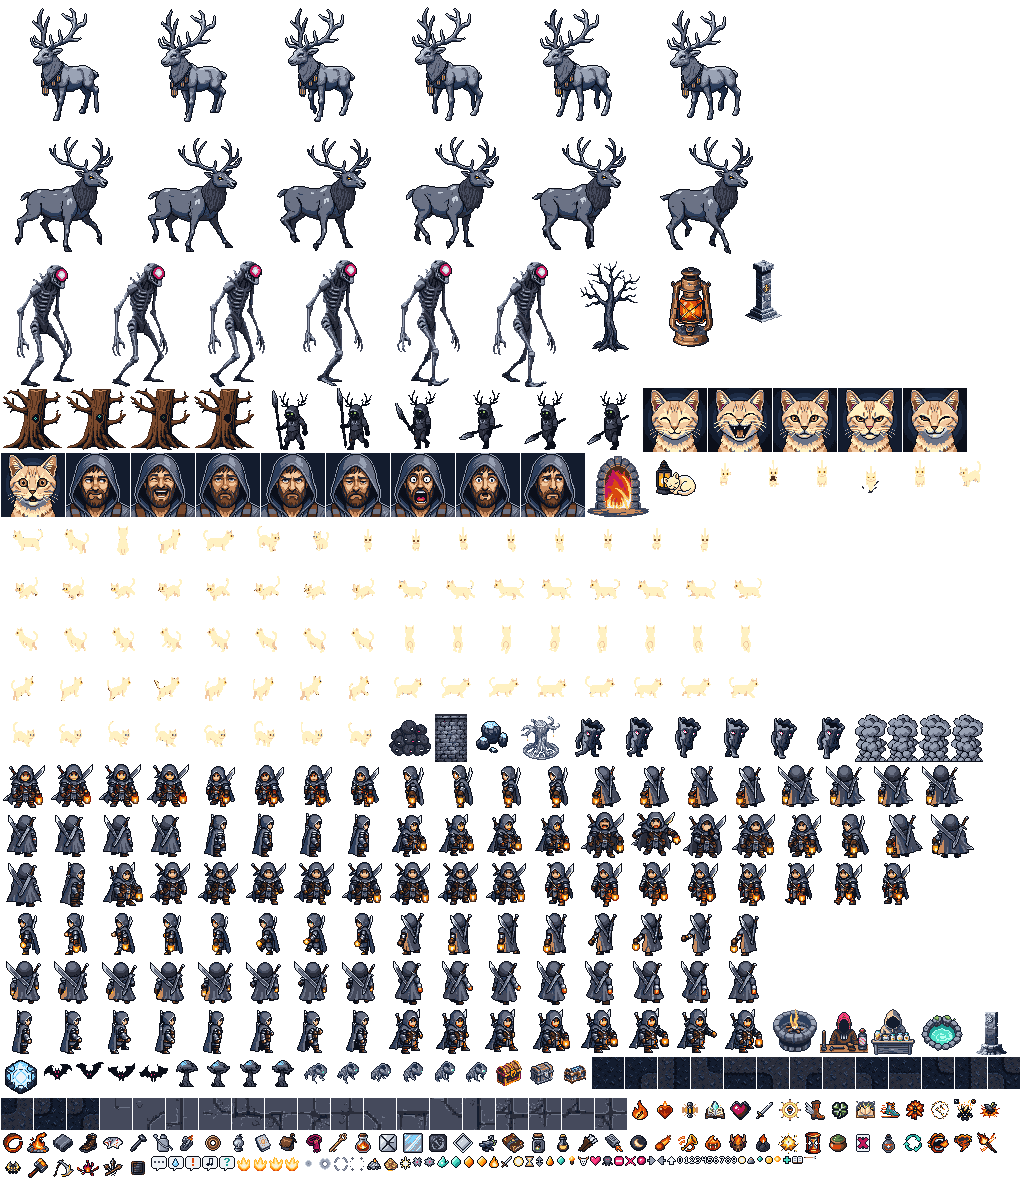
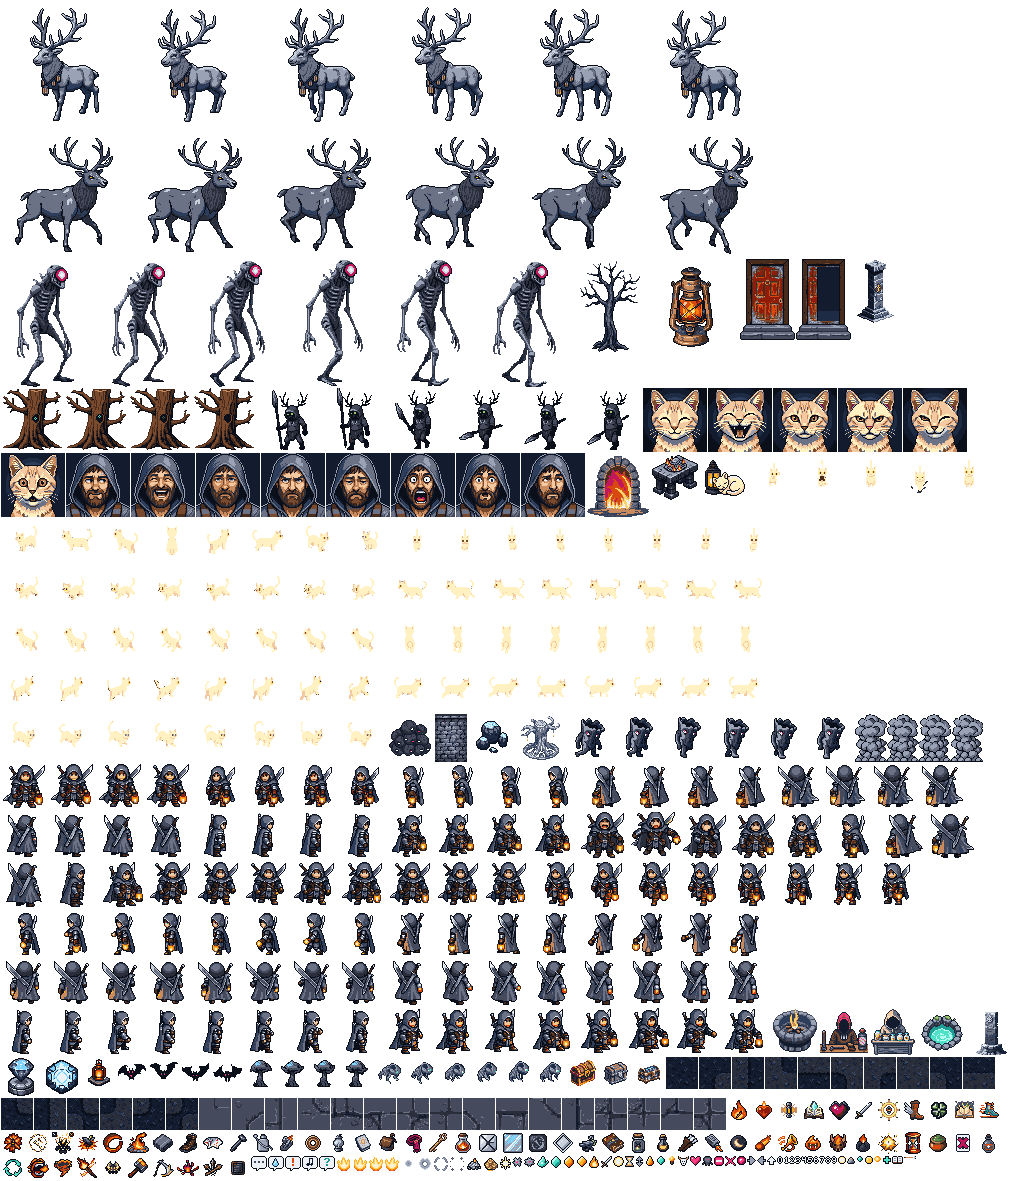
feat(refuge): la porte rouge, l'Autel, les Souvenirs et la lanterne dans le décor

diff --git a/packages/braise/tests/unit/assets.test.ts b/packages/braise/tests/unit/assets.test.ts
@@ -62,6 +62,7 @@ describe('assets (documents 10 et 11)', () => {
     for (const e of data.enemies) need.push(e.sprite);
     for (const a of data.altar) need.push(a.icon);
     for (const p of data.lantern.pieces) need.push(p.icon);
+    need.push('camp-door', 'camp-door-open', 'camp-altar', 'camp-souvenirs', 'camp-lantern');
     need.push('pickup-lantern-piece', 'lantern-frame', 'lantern-face-closed');
     for (const region of Object.values(data.regions)) {
       for (let mask = 0; mask < 16; mask++) need.push(`${region.tileset}-${mask}`);
